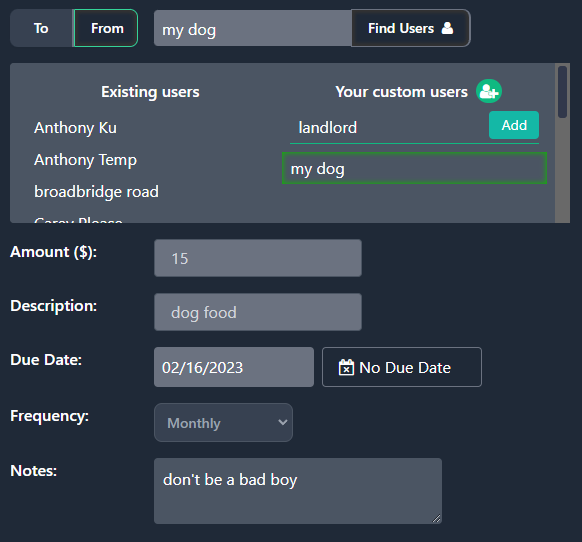
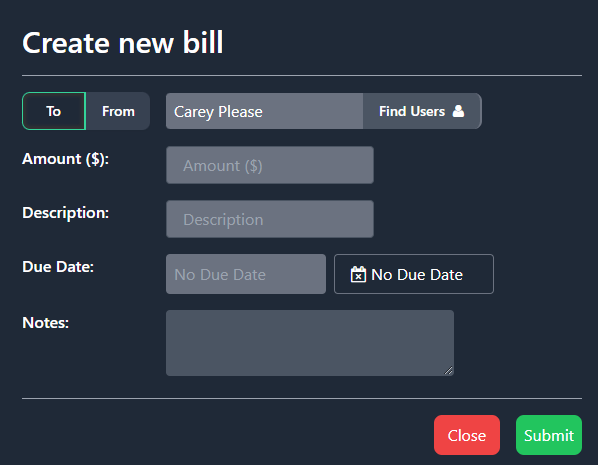
updated page 1 of user guide

diff --git a/src/pages/about/components/features-pages/page-2.tsx b/src/pages/about/components/features-pages/page-2.tsx
@@ -1,5 +1,6 @@
 import React from 'react';
 import createDebtImage from "../../../../assets/features_images/create-debt.png";
+import usersListImage from "../../../../assets/features_images/create-debt-users-list.png";
 import editDebtImage from "../../../../assets/features_images/edit-debt.png";
 import updateDebtImage from "../../../../assets/features_images/update-debt.png";
 import requestMoneyTableImage from "../../../../assets/features_images/request-money-table.png";
@@ -33,7 +34,10 @@ const Page2 = () => {
       <p className="font-medium text-lg text-white">Creating a new debt</p>
 
       <p>Users can create a debt through the "Create new bill" button.</p>
-      <img src={createDebtImage} width={400} className="border border-2 border-emerald-800"/>
+      <div className="flex flex-col space-y-2 lg:flex-row lg:space-x-2 lg:space-y-0">
+        <img src={createDebtImage} width={400} className="border border-2 border-emerald-800"/>
+        <img src={usersListImage} width={400} className="border border-2 border-emerald-800"/>
+      </div>
 
       <span className="flex flex-col lg:flex-row lg:space-x-2">
         <p className="font-medium text-white">To/From Users:</p><p>Users can select whether to send (To) or receive (from) other users.

diff --git a/src/pages/about/components/features-pages/page-1.tsx b/src/pages/about/components/features-pages/page-1.tsx
@@ -1,5 +1,6 @@
 import React from 'react';
 import Divider from "../../../../global/components/divider/divider";
+import landingPageImage from '../../../../assets/features_images/landing-page.png'
 
 const Page1 = () => {
   return (
@@ -18,6 +19,15 @@ const Page1 = () => {
 
       <p className="font-medium text-lg text-white">Getting started</p>
 
+      <img src={landingPageImage} width={500} className="border border-2 border-emerald-800"/>
+      <span className="flex flex-col lg:flex-row lg:space-x-2">
+        <p className="font-medium text-white">Sign in with Google:</p><p>Signing in with Google allows the user to share their name with other users. Other than profile image and name, no other data is saved.
+        </p>
+      </span>
+      <span className="flex flex-col lg:flex-row lg:space-x-2">
+        <p className="font-medium text-white">Sign in as guest:</p><p>Signing in as guest will provide the user with a randomly generated name. If the user logs out, the user will be assigned a new name and a clean profile.
+        </p>
+      </span>
     </div>
   )
 };
